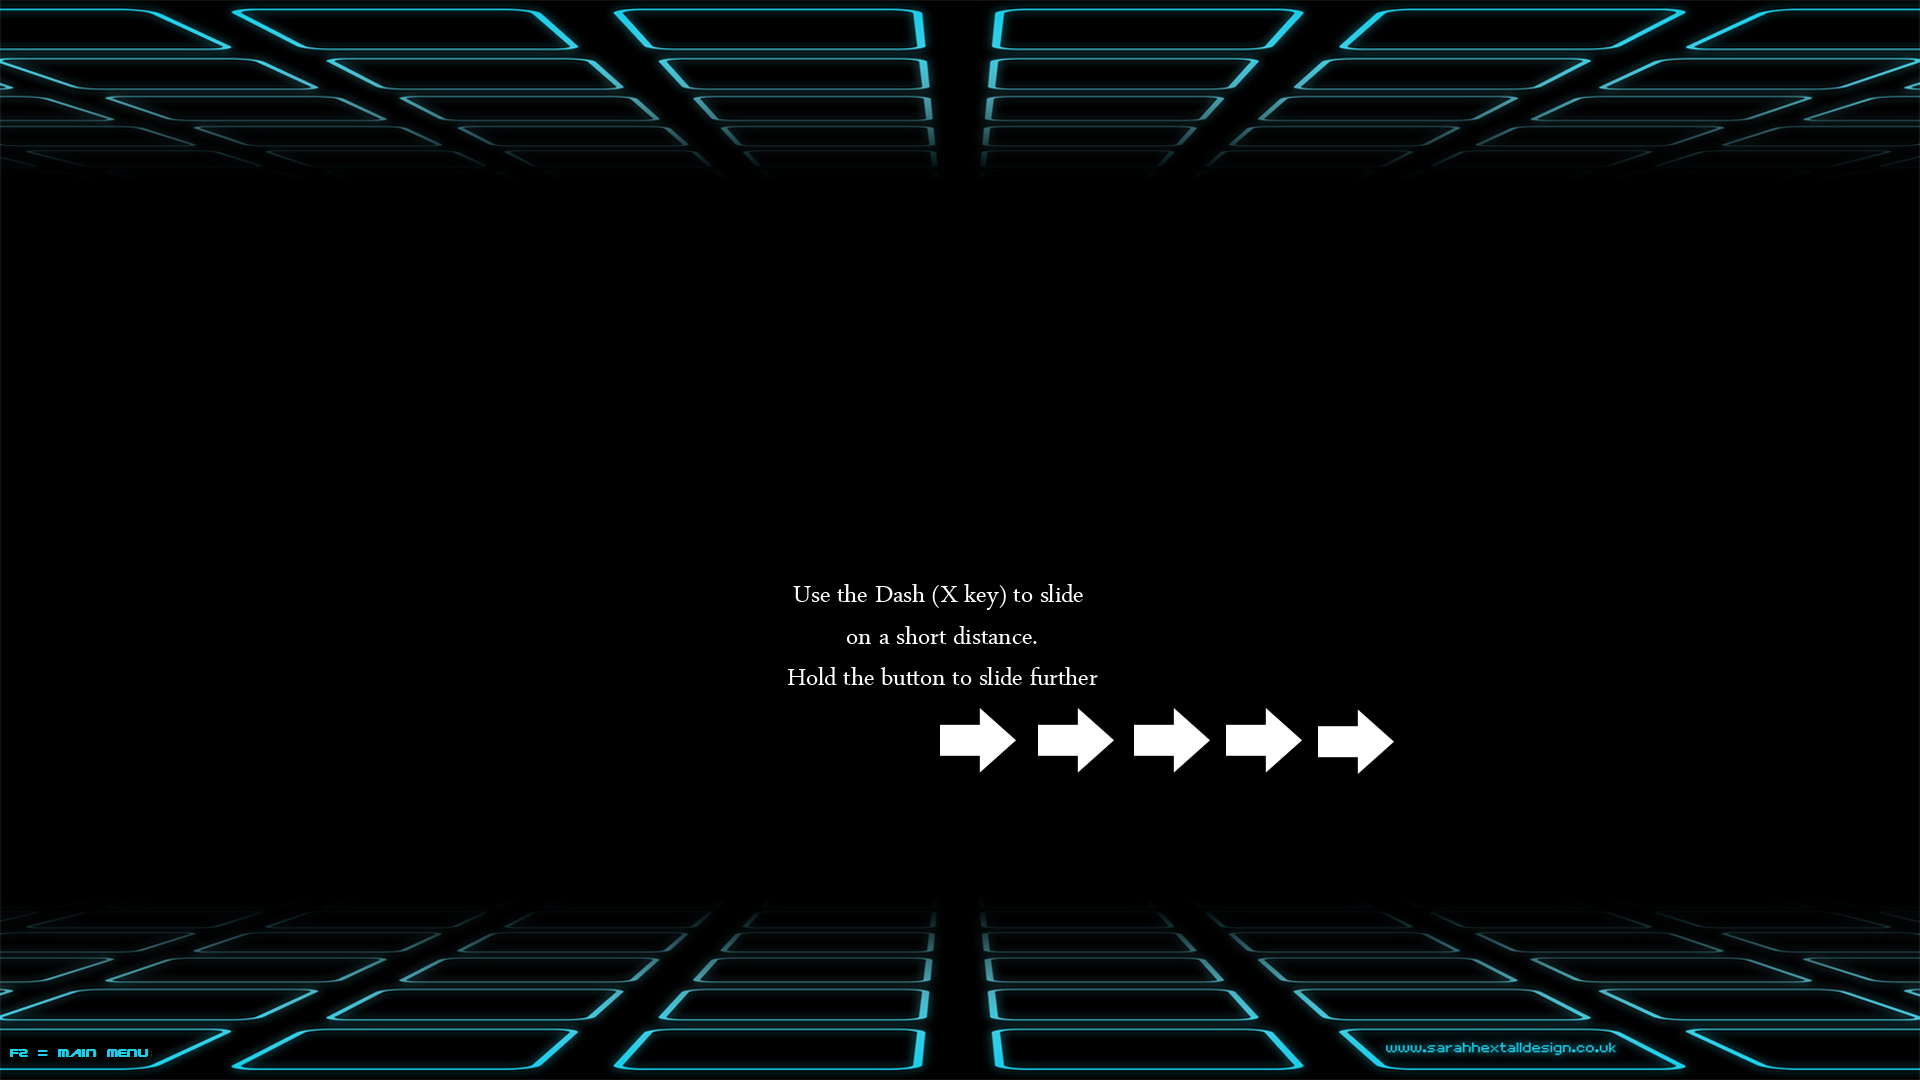
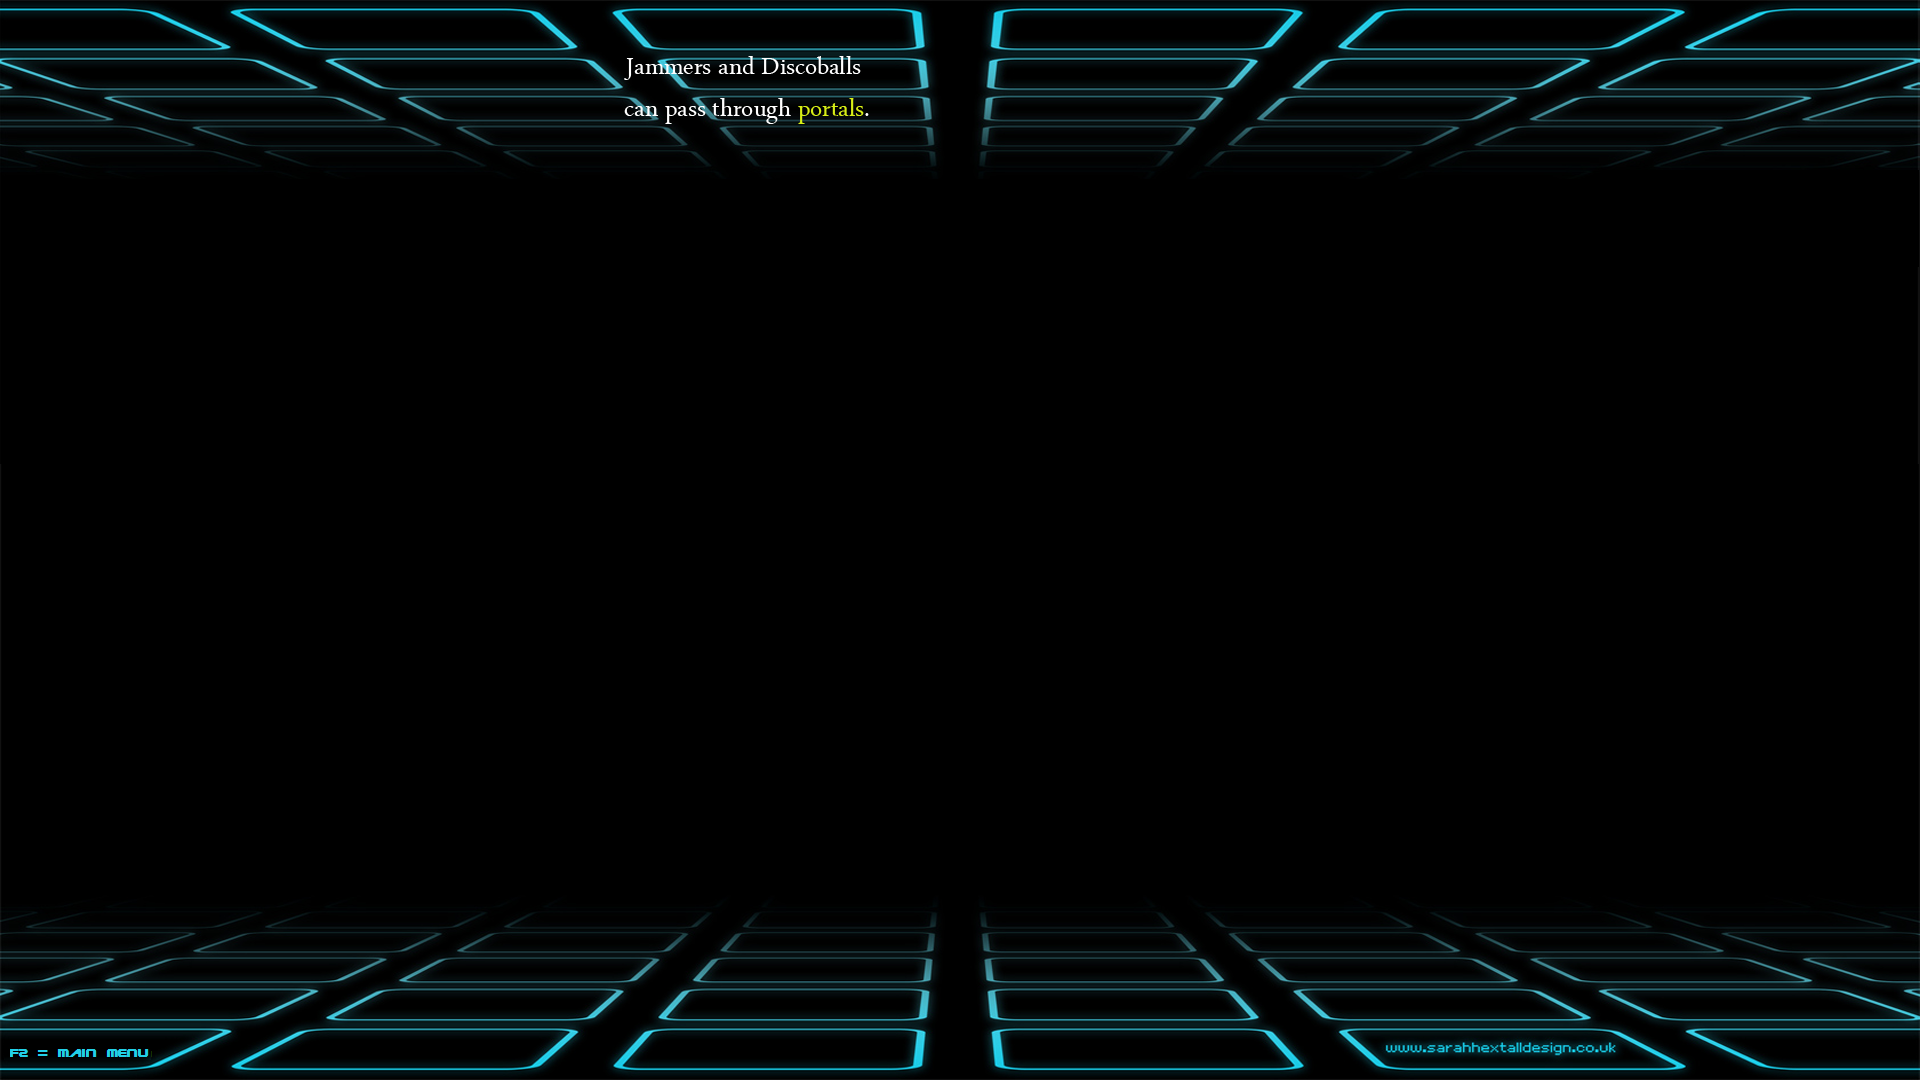
Tutos 01, 02, 03 chained

Changed region(s): [[0.4062, 0.55, 0.7188, 0.7028], [0.3125, 0.0611, 0.4375, 0.1222]]

diff --git a/Unstable/StarFighter/StarFighter/InGameState.cpp b/Unstable/StarFighter/StarFighter/InGameState.cpp
@@ -29,7 +29,7 @@ void InGameState::Initialize(Player player)
 
 	//launch script
 	//SetIngameScript(OfflineMulti);
-	SetIngameScript(Tuto03);
+	SetIngameScript(Tuto01);
 }
 
 void InGameState::SetIngameScript(IngameScript script, bool reset_scores)
@@ -406,6 +406,38 @@ void InGameState::StartTuto01()
 
 	const float xo = 400;
 	const float xa = 750;
+	const float xb = 1500;
+	const float ya = 200;
+	const float goal_size = 250;
+	const float ss = ((*CurrentGame).map_size.y - goal_size) / 2;
+
+	CreateBumper(OnlyBlueTeamThrough, sf::Vector2f(xo, REF_WINDOW_RESOLUTION_Y / 2), true, (*CurrentGame).map_size.y);
+	CreateDiscoball(sf::Vector2f(xa, REF_WINDOW_RESOLUTION_Y / 2));
+
+	CreateBumper(OnlyRedTeamThrough, sf::Vector2f(REF_WINDOW_RESOLUTION_X - xo, REF_WINDOW_RESOLUTION_Y / 2), true, (*CurrentGame).map_size.y);
+
+	CreateGoal(RedTeam, sf::Vector2f((*CurrentGame).map_size.x - 8, REF_WINDOW_RESOLUTION_Y / 2), sf::Vector2f(16, GOAL_SIZE));
+
+	CreateBumper(OnlyPlayersThrough, sf::Vector2f((*CurrentGame).map_size.x - GOAL_SAFE_ZONE_X, ss / 2), true, ss);
+	CreateBumper(OnlyPlayersThrough, sf::Vector2f((*CurrentGame).map_size.x - GOAL_SAFE_ZONE_X, (*CurrentGame).map_size.y - ss / 2), true, ss);
+	CreateBumper(OnlyPlayersThrough, sf::Vector2f((*CurrentGame).map_size.x - GOAL_SAFE_ZONE_X / 2, ss), false, GOAL_SAFE_ZONE_X);
+	CreateBumper(OnlyPlayersThrough, sf::Vector2f((*CurrentGame).map_size.x - GOAL_SAFE_ZONE_X / 2, (*CurrentGame).map_size.y - ss), false, GOAL_SAFE_ZONE_X);
+}
+
+void InGameState::StartTuto02()
+{
+	(*CurrentGame).cur_GameRules = SoloTraining;
+	(*CurrentGame).score_to_win = 1;
+	m_next_script = Tuto03;
+
+	GameObject* background = new GameObject(sf::Vector2f(REF_WINDOW_RESOLUTION_X / 2, REF_WINDOW_RESOLUTION_Y / 2), sf::Vector2f(0, 0), "Assets/2D/background_tuto02.png", sf::Vector2f(REF_WINDOW_RESOLUTION_X, REF_WINDOW_RESOLUTION_Y), sf::Vector2f(REF_WINDOW_RESOLUTION_X / 2, REF_WINDOW_RESOLUTION_Y / 2));
+	(*CurrentGame).addToScene(background, BackgroundLayer, BackgroundObject);
+	(*CurrentGame).map_size = background->m_size;
+
+	InitializeSoloCharacter();
+
+	const float xo = 400;
+	const float xa = 750;
 	const float xb = 1000;
 	const float ya = 200;
 	const float xc_ = (*CurrentGame).map_size.x - ((*CurrentGame).map_size.x - xb) / 2;
@@ -429,42 +461,42 @@ void InGameState::StartTuto01()
 	portal_right->m_destination = portal_left;
 }
 
-void InGameState::StartTuto02()
-{
-	(*CurrentGame).cur_GameRules = SoloTraining;
-	(*CurrentGame).score_to_win = 1;
-	m_next_script = Tuto02;
-
-	GameObject* background = new GameObject(sf::Vector2f(REF_WINDOW_RESOLUTION_X / 2, REF_WINDOW_RESOLUTION_Y / 2), sf::Vector2f(0, 0), "Assets/2D/background.png", sf::Vector2f(REF_WINDOW_RESOLUTION_X, REF_WINDOW_RESOLUTION_Y), sf::Vector2f(REF_WINDOW_RESOLUTION_X / 2, REF_WINDOW_RESOLUTION_Y / 2));
-	(*CurrentGame).addToScene(background, BackgroundLayer, BackgroundObject);
-	(*CurrentGame).map_size = background->m_size;
-
-	InitializeSoloCharacter();
-
-	const float xo = 400;
-	const float xa = 600;
-	const float xb = 1200;
-	const float xc = 1500;
-	const float ya = 400;
-	const float yb = REF_WINDOW_RESOLUTION_Y - ya;
-	CreateDiscoball(sf::Vector2f(xo, REF_WINDOW_RESOLUTION_Y / 2 + 200));
-
-	// A
-	CreateBumper(OnlyRedTeamThrough, sf::Vector2f(xa / 2, ya), false, xa);
-	CreateBumper(OnlyRedTeamThrough, sf::Vector2f(xa + (xb - xa) / 2, ya), false, xb - xa);
-	CreateBumper(OnlyPlayersThrough, sf::Vector2f(xa, ((REF_WINDOW_RESOLUTION_Y - ya) / 2) + ya + 1), true, REF_WINDOW_RESOLUTION_Y - ya - 1);
-
-	//B
-	CreateBumper(OnlyRedTeamThrough, sf::Vector2f(xb, ya / 2), true, ya);
-	//CreateBumper(OnlyPlayersThrough, sf::Vector2f(xa + (xb - xa) / 2, ya + 2), false, xb - xa);
-
-	//C
-	CreateBumper(OnlyBlueTeamThrough, sf::Vector2f(xc + (REF_WINDOW_RESOLUTION_X - xc) / 2, ya), false, REF_WINDOW_RESOLUTION_X - xc);
-	CreateBumper(OnlyBlueTeamThrough, sf::Vector2f(xb + (xc - xb) /2, ya), false, xc - xb);
-
-	//CreateIACharacter(sf::Vector2f(xa, ya / 2), Savannah, BlueTeam, IAHard, true);
-	//CreateIACharacter(sf::Vector2f(xc, (REF_WINDOW_RESOLUTION_Y + yb) / 2), Quorra, RedTeam, IAHard, true);
-}
+//void InGameState::StartTuto02()
+//{
+//	(*CurrentGame).cur_GameRules = SoloTraining;
+//	(*CurrentGame).score_to_win = 1;
+//	m_next_script = Tuto02;
+//
+//	GameObject* background = new GameObject(sf::Vector2f(REF_WINDOW_RESOLUTION_X / 2, REF_WINDOW_RESOLUTION_Y / 2), sf::Vector2f(0, 0), "Assets/2D/background.png", sf::Vector2f(REF_WINDOW_RESOLUTION_X, REF_WINDOW_RESOLUTION_Y), sf::Vector2f(REF_WINDOW_RESOLUTION_X / 2, REF_WINDOW_RESOLUTION_Y / 2));
+//	(*CurrentGame).addToScene(background, BackgroundLayer, BackgroundObject);
+//	(*CurrentGame).map_size = background->m_size;
+//
+//	InitializeSoloCharacter();
+//
+//	const float xo = 400;
+//	const float xa = 600;
+//	const float xb = 1200;
+//	const float xc = 1500;
+//	const float ya = 400;
+//	const float yb = REF_WINDOW_RESOLUTION_Y - ya;
+//	CreateDiscoball(sf::Vector2f(xo, REF_WINDOW_RESOLUTION_Y / 2 + 200));
+//
+//	// A
+//	CreateBumper(OnlyRedTeamThrough, sf::Vector2f(xa / 2, ya), false, xa);
+//	CreateBumper(OnlyRedTeamThrough, sf::Vector2f(xa + (xb - xa) / 2, ya), false, xb - xa);
+//	CreateBumper(OnlyPlayersThrough, sf::Vector2f(xa, ((REF_WINDOW_RESOLUTION_Y - ya) / 2) + ya + 1), true, REF_WINDOW_RESOLUTION_Y - ya - 1);
+//
+//	//B
+//	CreateBumper(OnlyRedTeamThrough, sf::Vector2f(xb, ya / 2), true, ya);
+//	//CreateBumper(OnlyPlayersThrough, sf::Vector2f(xa + (xb - xa) / 2, ya + 2), false, xb - xa);
+//
+//	//C
+//	CreateBumper(OnlyBlueTeamThrough, sf::Vector2f(xc + (REF_WINDOW_RESOLUTION_X - xc) / 2, ya), false, REF_WINDOW_RESOLUTION_X - xc);
+//	CreateBumper(OnlyBlueTeamThrough, sf::Vector2f(xb + (xc - xb) /2, ya), false, xc - xb);
+//
+//	//CreateIACharacter(sf::Vector2f(xa, ya / 2), Savannah, BlueTeam, IAHard, true);
+//	//CreateIACharacter(sf::Vector2f(xc, (REF_WINDOW_RESOLUTION_Y + yb) / 2), Quorra, RedTeam, IAHard, true);
+//}
 
 void InGameState::StartTuto03()
 {
@@ -472,7 +504,7 @@ void InGameState::StartTuto03()
 	(*CurrentGame).score_to_win = 1;
 	m_next_script = MainMenuScript;
 
-	GameObject* background = new GameObject(sf::Vector2f(REF_WINDOW_RESOLUTION_X / 2, REF_WINDOW_RESOLUTION_Y / 2), sf::Vector2f(0, 0), "Assets/2D/background_tuto02.png", sf::Vector2f(REF_WINDOW_RESOLUTION_X, REF_WINDOW_RESOLUTION_Y), sf::Vector2f(REF_WINDOW_RESOLUTION_X / 2, REF_WINDOW_RESOLUTION_Y / 2));
+	GameObject* background = new GameObject(sf::Vector2f(REF_WINDOW_RESOLUTION_X / 2, REF_WINDOW_RESOLUTION_Y / 2), sf::Vector2f(0, 0), "Assets/2D/background_tuto03.png", sf::Vector2f(REF_WINDOW_RESOLUTION_X, REF_WINDOW_RESOLUTION_Y), sf::Vector2f(REF_WINDOW_RESOLUTION_X / 2, REF_WINDOW_RESOLUTION_Y / 2));
 	(*CurrentGame).addToScene(background, BackgroundLayer, BackgroundObject);
 	(*CurrentGame).map_size = background->m_size;
 
@@ -682,9 +714,9 @@ void InGameState::InitializeMapDesign()
 	CreateBumper(OnlyRedTeamThrough, sf::Vector2f((*CurrentGame).map_size.x - DEFENDER_SAFE_ZONE_X, REF_WINDOW_RESOLUTION_Y / 2), true, (*CurrentGame).map_size.y);
 
 	//SafeSpace
-	float goal_size_y = GOAL_SIZE;
-	float safe_space_x = GOAL_SAFE_ZONE_X;
-	float ss = ((*CurrentGame).map_size.y - goal_size_y) / 2;
+	const float goal_size_y = GOAL_SIZE;
+	const float safe_space_x = GOAL_SAFE_ZONE_X;
+	const float ss = ((*CurrentGame).map_size.y - goal_size_y) / 2;
 	CreateBumper(OnlyPlayersThrough, sf::Vector2f(safe_space_x, ss / 2), true, ss);
 	CreateBumper(OnlyPlayersThrough, sf::Vector2f(safe_space_x, (*CurrentGame).map_size.y - ss / 2), true, ss);
 	CreateBumper(OnlyPlayersThrough, sf::Vector2f(safe_space_x / 2, ss), false, safe_space_x);

diff --git a/Unstable/StarFighter/StarFighter/Stroboscopic.cpp b/Unstable/StarFighter/StarFighter/Stroboscopic.cpp
@@ -4,7 +4,7 @@ extern Game* CurrentGame;
 
 using namespace sf;
 
-Stroboscopic::Stroboscopic(sf::Time decade_time, GameObject* parent) : GameObject(parent->getPosition(), sf::Vector2f(0, 0), parent->textureName, parent->m_size, sf::Vector2f(parent->m_size.x/2, parent->m_size.y/2), parent->frameNumber, parent->animationNumber)
+Stroboscopic::Stroboscopic(sf::Time decade_time, GameObject* parent) : GameObject(parent->getPosition(), sf::Vector2f(0, 0), parent->textureName, parent->m_size, sf::Vector2f(parent->m_size.x/2, parent->m_size.y/2), parent->m_frameNumber, parent->m_animationNumber)
 {
 	m_alpha = 255;
 	m_decade_time = decade_time;
